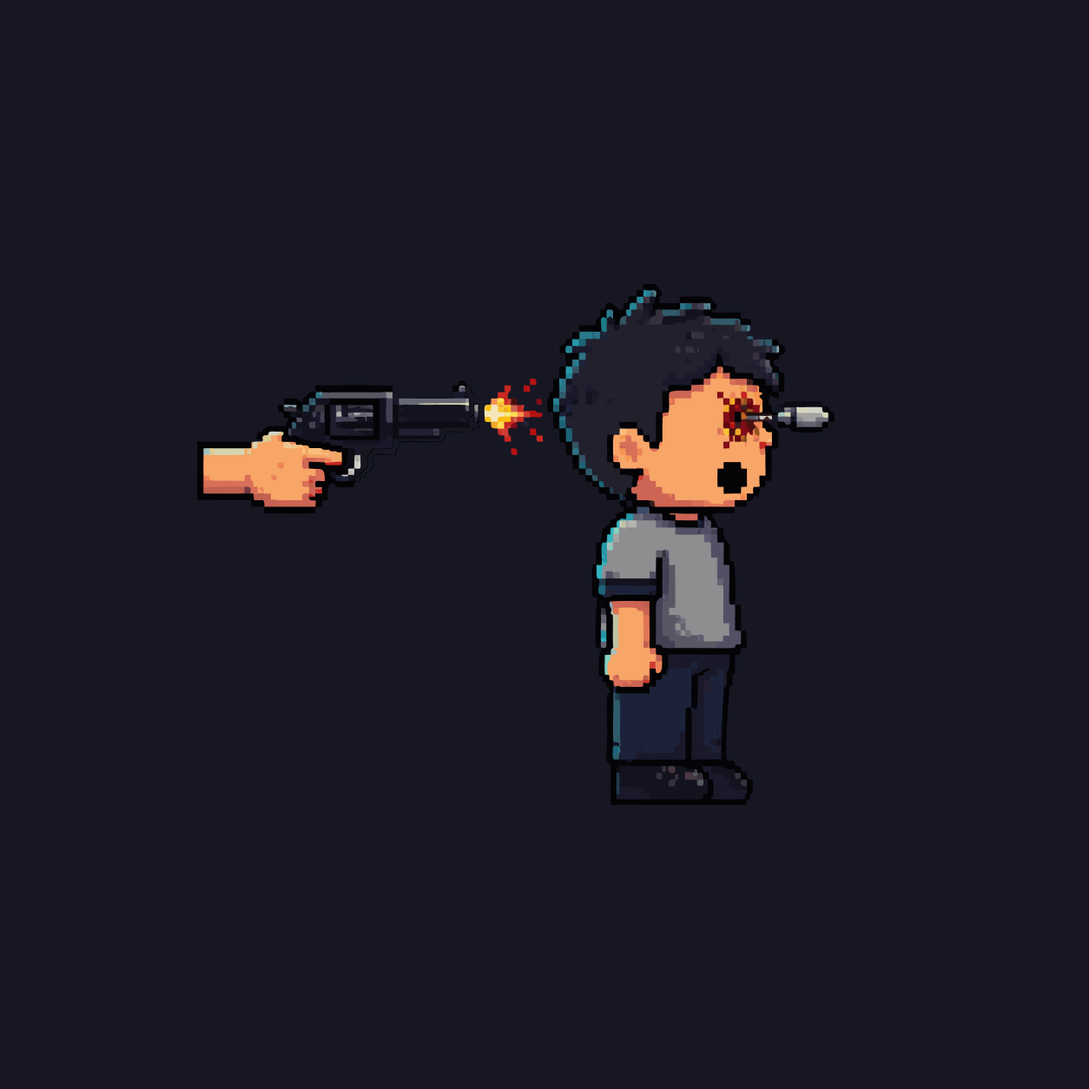
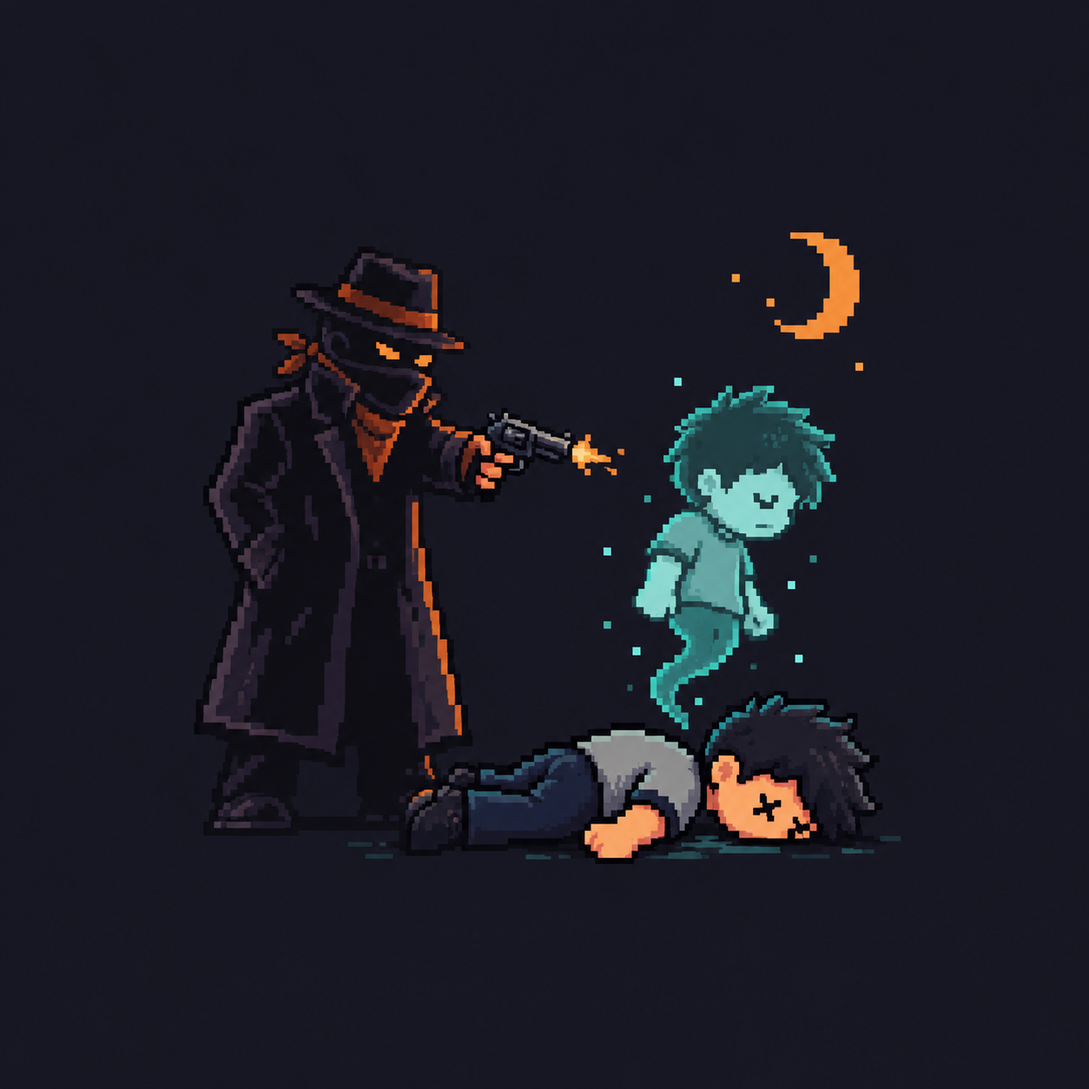
85 halloween redesign homepage

diff --git a/frontend/halloween/homeSeason.ts b/frontend/halloween/homeSeason.ts
@@ -5,11 +5,13 @@ type HomeSeasonManifest = {
   revision: string
   images: string[]
   decorations: typeof DECORATION_FILES
+  playerImages: typeof PLAYER_IMAGE_FILES
   stylesheet: 'theme.css'
 }
 
 type LoadedHomeSeason = {
   images: string[]
+  playerImages: Record<PlayerImageName, string>
 }
 
 const RESOURCE_TIMEOUT_MS = 12000
@@ -28,6 +30,15 @@ const DECORATION_PROPERTIES = {
   logo: '--home-season-logo',
   noRooms: '--home-season-no-rooms',
 } as const
+const PLAYER_IMAGE_FILES = {
+  fouledPlayer: 'fouledPlayer.png',
+  killPlayer: 'killPlayer.png',
+  leavePlayer: 'leavePlayer.png',
+  lowSignal: 'lowSignal.png',
+  sleepPlayer: 'sleepPlayer.png',
+  votedPlayer: 'votedPlayer.png',
+} as const
+type PlayerImageName = keyof typeof PLAYER_IMAGE_FILES
 const loadedSeason = shallowRef<LoadedHomeSeason | null>(null)
 const seasonActive = computed(() => loadedSeason.value !== null)
 let loadStarted = false
@@ -51,6 +62,13 @@ function parseManifest(value: unknown): HomeSeasonManifest {
     Object.keys(manifest.decorations).length !== Object.keys(DECORATION_FILES).length ||
     !Object.entries(DECORATION_FILES).every(([key, filename]) => (
       manifest.decorations?.[key as keyof typeof DECORATION_FILES] === filename
+    )) ||
+    !manifest.playerImages ||
+    typeof manifest.playerImages !== 'object' ||
+    Array.isArray(manifest.playerImages) ||
+    Object.keys(manifest.playerImages).length !== Object.keys(PLAYER_IMAGE_FILES).length ||
+    !Object.entries(PLAYER_IMAGE_FILES).every(([key, filename]) => (
+      manifest.playerImages?.[key as PlayerImageName] === filename
     ))
   ) {
     throw new Error('Invalid seasonal manifest')
@@ -147,7 +165,10 @@ async function loadHomeSeason(): Promise<void> {
       property: DECORATION_PROPERTIES[key as keyof typeof DECORATION_PROPERTIES],
       url: resourceUrl(filename),
     }))
-    await Promise.all([...images, ...decorations.map(({ url }) => url)].map(preloadImage))
+    const playerImages = Object.fromEntries(Object.entries(PLAYER_IMAGE_FILES).map(([key, filename]) => (
+      [key, resourceUrl(filename)]
+    ))) as Record<PlayerImageName, string>
+    await Promise.all([...images, ...decorations.map(({ url }) => url), ...Object.values(playerImages)].map(preloadImage))
     if (cancelled) return
     const link = await preloadStylesheet(resourceUrl(manifest.stylesheet))
     if (cancelled) {
@@ -160,7 +181,7 @@ async function loadHomeSeason(): Promise<void> {
     }
     link.media = 'all'
     document.documentElement.setAttribute('data-home-season', 'halloween')
-    loadedSeason.value = { images }
+    loadedSeason.value = { images, playerImages }
   } catch {
     // The optional folder may intentionally be absent. Keep the original page in that case.
     resetHomeSeason()
@@ -170,5 +191,6 @@ async function loadHomeSeason(): Promise<void> {
 export function useHomeSeason() {
   onMounted(() => { void loadHomeSeason() })
   const seasonImage = (index: number, fallback: string): string => loadedSeason.value?.images[index] ?? fallback
-  return { seasonActive, seasonImage, resetHomeSeason }
+  const seasonPlayerImage = (name: PlayerImageName, fallback: string): string => loadedSeason.value?.playerImages[name] ?? fallback
+  return { seasonActive, seasonImage, seasonPlayerImage, resetHomeSeason }
 }

diff --git a/frontend/src/pages/Room.vue b/frontend/src/pages/Room.vue
@@ -55,7 +55,7 @@
           :seat="game.seatIndex(id)"
           :seat-label="game.seatLabelForUser(id)"
           :offline="offlineInGame.has(id)"
-          :offline-avatar="iconLowSignal"
+          :offline-avatar="seasonPlayerImage('lowSignal', iconLowSignal)"
           :role-pick-owner-id="rolePickOwnerIdFor(id)"
           :role-pick-remaining-ms="rolePickRemainingMsFor(id)"
           :mafia-talk-host-id="mafiaTalkHostIdFor(id)"
@@ -211,7 +211,7 @@
             :seat="game.seatIndex(id)"
             :seat-label="game.seatLabelForUser(id)"
             :offline="offlineInGame.has(id)"
-            :offline-avatar="iconLowSignal"
+            :offline-avatar="seasonPlayerImage('lowSignal', iconLowSignal)"
             :role-pick-owner-id="rolePickOwnerIdFor(id)"
             :role-pick-remaining-ms="rolePickRemainingMsFor(id)"
             :mafia-talk-host-id="mafiaTalkHostIdFor(id)"
@@ -558,6 +558,7 @@ import {
 } from '@/composables/roomGame'
 import { type CameraQuality, type ScreenShareQuality, useRTC, type VQ } from '@/composables/rtc'
 import { useSubscriptionStatus } from '@/services/useSubscriptionStatus'
+import { useHomeSeason } from '../../halloween/homeSeason'
 import { api } from '@/services/axios'
 import { alertDialog, confirmDialog, confirmDialogWithRadio, useConfirmState } from '@/services/confirm'
 import { normalizeRoomGameParams, type RoomGameParams } from '@/services/gameParams'
@@ -651,6 +652,7 @@ type GameVersionPayload = {
 
 const route = useRoute()
 const router = useRouter()
+const { seasonPlayerImage } = useHomeSeason()
 const auth = useAuthStore()
 const settings = useSettingsStore()
 const userStore = useUserStore()
@@ -1068,7 +1070,7 @@ function hiddenByVisibility(id: string): boolean {
 }
 function visOffAvatar(id: string): string {
   if (!hiddenByVisibility(id)) return ''
-  return gamePhase.value === 'idle' ? iconVisOff : iconSleepPlayer
+  return gamePhase.value === 'idle' ? iconVisOff : seasonPlayerImage('sleepPlayer', iconSleepPlayer)
 }
 
 function closeKnockModal() {
@@ -1091,15 +1093,15 @@ const readyCount = computed(() => {
 })
 
 type DeathReasonKind = 'suicide' | 'foul' | 'vote' | 'night' | string
-const DEAD_ICON_BY_REASON: Record<DeathReasonKind, string> = {
-  suicide: iconLeavePlayer,
-  foul: iconFouledPlayer,
-  vote: iconVotedPlayer,
-  night: iconKillPlayer,
+const DEAD_ICON_BY_REASON: Record<DeathReasonKind, () => string> = {
+  suicide: () => seasonPlayerImage('leavePlayer', iconLeavePlayer),
+  foul: () => seasonPlayerImage('fouledPlayer', iconFouledPlayer),
+  vote: () => seasonPlayerImage('votedPlayer', iconVotedPlayer),
+  night: () => seasonPlayerImage('killPlayer', iconKillPlayer),
 }
 const deadAvatar = (id: string): string => {
   const reason = game.deathReason(id) as DeathReasonKind
-  return DEAD_ICON_BY_REASON[reason] || iconKillPlayer
+  return (DEAD_ICON_BY_REASON[reason] || DEAD_ICON_BY_REASON.night)()
 }
 
 const totalPlayers = computed(() => sortedPeerIds.value.length)

diff --git a/frontend/halloween/vite-plugin.ts b/frontend/halloween/vite-plugin.ts
@@ -10,6 +10,12 @@ const PUBLIC_RESOURCES = [
   'evil-pumpkin.png',
   'logo-halloween.svg',
   'icon-no-rooms-halloween.svg',
+  'fouledPlayer.png',
+  'killPlayer.png',
+  'leavePlayer.png',
+  'lowSignal.png',
+  'sleepPlayer.png',
+  'votedPlayer.png',
   'manifest.json',
   'theme.css',
 ]

diff --git a/frontend/halloween/player-status-prompts.md b/frontend/halloween/player-status-prompts.md
@@ -1,0 +1,73 @@
+# Хеллоуинские статусы игроков
+
+Инструмент: встроенный image_gen. Сезонные версии находятся в этой же папке. По просьбе пользователя первый вариант `killPlayer.png` перенесён в `frontend/src/assets/images/killPlayer.png` как постоянный; для Halloween создан отдельный новый вариант. Остальные исходные PNG не изменены. Пиксельная стилистика применяется ко всем персонажам и предметам.
+
+| Файл | Смысл | Сезонная концепция |
+|---|---|---|
+| fouledPlayer.png | Удалён со стола по фолам | Штрафные карточки и проклятая молния |
+| killPlayer.png | Убит мафией ночью | Тыквоголовый мафиози с костлявой рукой, луна, летучая мышь и призрак |
+| leavePlayer.png | Совершил самоубийство | Призрак с разбитым символом жизни у собственного надгробия, без показа способа |
+| lowSignal.png | Проблемы с сетью | Телефон, оборванный сигнал и разъединённый кабель |
+| sleepPlayer.png | Спит | Закрытые глаза, ночной колпак и Z |
+| votedPlayer.png | Изгнан голосованием | Урна с бюллетенями и несколько призрачных рук |
+
+## Общий промпт
+
+Use case: style-transfer / precise-object-edit.
+Asset type: ONE replacement square pixel-art status illustration inside a player avatar tile in the Russian social game deceit (Mafia).
+Input image1 is the current original status illustration, an edit target and source of the SAME recurring player character: young adult male, messy dark hair, pale-warm skin, gray shirt, dark trousers, chunky black shoes. Preserve recognizable identity, pixel density and compact readable game-sprite silhouette; poses/props can change only to clarify the specified state and add Halloween. Input image2 is an approved seasonal cat illustration for PALETTE AND PIXEL EDGE reference only; do NOT put this cat, its hat or umbrella into the player illustration.
+STYLE MUST BE ACTUAL PIXEL ART throughout ALL objects: visible small square pixels, stepped diagonals, crisp hard outlines, flat limited palette and blocky dither shading. Every face, hand, prop, light and shadow must follow the same coarse pixel grid. NO smooth vector curves, no photorealism, no glossy 3D, no painterly brushwork, no antialiasing, blur or bloom, no mixing a pixel person with smooth props. Original game sprite style with Halloween charcoal, dark plum, warm burnt orange, pale amber and restrained ghostly teal. Keep skin/body readable. No detailed bloody anatomy, no protruding bullets, no gore.
+CANVAS: square approximately1254x1254 (or the available square output), OPAQUE flat solid background exact dark charcoal #171723 across all empty space, matching original tile. Do not put this art on transparent, white, checkerboard or scenery backgrounds. One complete centered scene ONLY, no contact sheet, no border, no title, no UI, no extra words or watermark. Leave breathing room around all sides; main scene occupies central~65-72% of canvas, similar apparent scale to original; no cropped character/limbs/props. Keep most area quiet flat #171723, apart from a tiny understated pixel ground shadow if needed.
+READABILITY: status must read at a tiny avatar-tile thumbnail. Clear large silhouette, only2-3 strong meaningful props, few tiny decorative accents. Horror/Halloween via expressive shadowy supernatural props, haunted shapes, mean pumpkin details, ghostly light; not a dense background. The six states form one family but each action must remain unmistakable and visually distinct.
+Do not copy unwanted original violence if the specific concept below replaces it. Exact event/state specified below takes priority over misleading props in the old illustration.
+
+## fouledPlayer.png
+
+EVENT: player was REMOVED FROM THE TABLE AS A PENALTY FOR REPEATED FOULS / rule violations.
+Keep recognizable frightened player recoiling as a sharp orange CURSE-LIGHTNING strike descends from upper right (echo original lightning theme). At upper left of the character show a clear fan of THREE large red-orange referee penalty cards, each marked with ONE simple black X, a small skeletal referee hand presenting the cards from the side. Cards and thunder together signal punishment for repeated violations. Player upright/stumbling backward with hands raised, dark teal-orange curse sparks, NO death, no grave, no ballot, no human crowd voting, no door/exit. Add a small mean jack-o'-lantern shape subtly worked into the central thunder strike/star. Leave all character proportions consistent with the original. Card X marks may be blocky symbols, no words or numerals. Dominant narrative is penalized/banished by referee, not network electricity.
+
+## killPlayer.png
+
+### Первый вариант — теперь постоянный
+
+Первоначальный промпт ниже относится к одобренной иллюстрации, которая теперь сохранена в `frontend/src/assets/images/killPlayer.png`. После отката Halloween она остаётся постоянной версией.
+
+EVENT: player was KILLED BY THE MAFIA DURING THE NIGHT.
+Retain original pixel character at center-right but replace the graphic head wound/protruding bullet with a non-graphic death scene: player's gray-clothed body slumped/fallen at lower center, closed/X eyes small, a wispy pale TEAL GHOST shaped like the same character rising just above the body. At upper-left/left is a LARGE ominous MAFIA silhouette with black fedora, dark coat and bandana, aiming a small pixel revolver toward the victim; muzzle dark or one tiny amber flash, no visible wound or gore. A small amber crescent moon near upper right makes NIGHT clear. Mafia attacker and rising soul are the main clear motifs. ONE scene, no doorway, no cards, no vote hands, no guillotine. Dark threatening Halloween crime vibe. Prefer a complete compact composition with attacker left, fallen character right, small ghost above; keep silhouette readable and avoid overlapping all figures into a mass.
+
+### Новый сезонный вариант
+
+Use case: style-transfer.
+Asset type: ONE production-ready square pixel-art Halloween status illustration for killPlayer.png in the fictional Mafia game deceit. Meaning MUST remain unmistakable: PLAYER WAS KILLED BY THE MAFIA AT NIGHT.
+Input image 1 is the approved PERMANENT illustration, supplied as STYLE, CHARACTER and QUALITY reference; create a visibly NEW HALLOWEEN composition rather than copying it. Preserve the same recurring adult cartoon victim: messy charcoal hair, warm skin, gray shirt, navy trousers and chunky black shoes. Match the reference's actual square-pixel game-sprite style, readable blocky outlines, scale and sharp stepped shading. Image 2 is only a supporting seasonal PALETTE and PIXEL EDGE reference; do not include its cat/umbrella or lettering.
+NEW CONCEPT: a sinister PUMPKIN-HEADED MAFIA ASSASSIN stands on the RIGHT, with a dark fedora tilted over the evil jack-o-lantern face (slanted glowing orange eyes and jagged carved grin), tattered plum-black long mafia coat, one skeletal hand aiming a compact dark revolver down and LEFT toward the fallen victim. The jack-o-lantern head must be the unmistakable Halloween centerpiece while the fedora, coat and revolver clearly identify mafia. A tiny angular amber muzzle flash is enough; no bullet penetration or wound.
+At lower LEFT/center lies the same gray-shirted victim with small X eyes, intact body, no blood. Above him a recognizably matching PALE TEAL GHOST rises in a crooked wispy trail, its hands lifted in alarm. Keep ghost and body distinct and readable. A restrained burnt-orange crescent moon and ONE tiny pixel bat at upper LEFT indicate Halloween night. A very small fallen carved pumpkin lantern near the ground may echo the killer's head, but don't crowd the scene. Grim spooky game atmosphere, simple clear silhouettes.
+COMPOSITION: complete attacker on right, fallen player at lower left, ghost upper left/center, no overlapping silhouettes obscuring the story; all inside central 70-76% of square canvas with ample empty margins. Match reference apparent character scale; do not cut off feet, hat, ghost, moon, props or coat.
+PIXEL ART ONLY throughout: every pumpkin, carved facial feature, skeletal finger, revolver, coat, moon, bat, player, ghost and ground shadow uses the SAME crisp chunky square-pixel grid with stepped diagonals, hard black/dark outlines, flat limited colors and block dither shading. NO smooth vector curves, no glossy 3D, photorealism, painterly brushwork, blur, bloom or anti-aliased edges.
+Palette: charcoal, midnight plum, pumpkin burnt orange / amber, restrained spectral teal. Quiet OPAQUE solid exact #171723 empty background matching the original avatar tiles, no scenery, room, graveyard, horizon, heavy vignette, texture, checkerboard or transparent background. Square 1254x1254 if available, one isolated finished scene. No frame, UI, collage, labels, words, lettering or watermark. No gore or graphic injuries. No ballot box, foul cards, cracked heart, grave marker, sleep Z, phone, or door.
+
+## leavePlayer.png
+
+Use case: stylized-concept / style-transfer.
+Asset type: ONE square pixel-art in-game status illustration for the fictional Russian Mafia game deceit; file leavePlayer.png, whose game-state meaning is that the player's character died by suicide. This is a fictional game avatar status, not a real-world scene.
+Image 1 is a STYLE AND CHARACTER REFERENCE ONLY (sleepPlayer.png): preserve the recurring adult cartoon male character's recognizable messy dark hair, warm skin, gray shirt, navy trousers and chunky black shoes; change his state and pose completely. Image 2 is a PALETTE / PIXEL EDGE reference only (Halloween cat), do not include the cat, hat or umbrella.
+Make a grim, symbolic NON-GRAPHIC AFTERMATH with no method depicted: at center a small dark stone grave marker bearing the same player's blocky portrait with small X eyes. His pale teal ghost, recognizably the same messy-haired adult character, hovers beside it looking somberly downward; his own ghostly hands hold the two separated halves of a large cracked pumpkin-orange heart-shaped game-life token. One small extinguished candle and a subdued angry jack-o-lantern sit near the stone. This status symbolizes his OWN ended game life, with no outside killer, no vote or foul penalty and no walking away through an exit. Keep the broken life-token and ghost large, clear and readable. No living sleeping person or Z symbols.
+STYLE MUST BE ACTUAL PIXEL ART in every detail: a crisp, chunky square-pixel grid, stepped diagonals, strong blocky dark outlines, flat limited colors and block dither shadows, matching the original game sprite family. Every ghost edge, heart, stone, candle, pumpkin and shadow obeys the same pixel grid. NO photorealism, smooth vector shapes, gradients, blur, bloom, antialiasing, glossy 3D or painted texture.
+Palette: charcoal, dark plum, burnt pumpkin orange, restrained ghostly teal. Empty background OPAQUE flat exact #171723; no scene background, floor horizon, vignette, border or UI. Square 1254x1254 if available; main complete scene occupies about central 65-72% with wide quiet margins, nothing cut off. Tiny subtle stepped ground shadow allowed. Same apparent sprite scale as the original, readable at avatar thumbnail.
+No text, letters, labels, watermark. No wound, blood, gore, weapon, rope, or self-harm method/action. No attacker, cards, ballot box, door, travel bag, or network symbols. Deliver only one complete production-ready square image.
+
+## lowSignal.png
+
+EVENT: living player has a NETWORK CONNECTION PROBLEM / weak or lost signal.
+Keep recognizable worried player upright at left, holding smartphone up trying to catch signal; phone display shows big pixel broken Wi-Fi symbol (curved stepped arcs crossed with a small orange diagonal, NO words). At right show a crooked dark haunted transmission tower / router with antenna, and a clearly BROKEN / unplugged network cable between phone/player side and router with two separated plug halves. Above is large pixel weak Wi-Fi indicator with only one tiny amber bar/dot active, other two bars gray or dashed teal signal fragments visibly interrupted. At most one tiny bat hanging from antenna as Halloween detail, small spiderweb on router corner. Player intact alive, not electrocuted, not sleeping, no attack, no cards or blood. Keep 2main subjects and simple large signal icon rather than busy manyprops. Broken connection reads instantly at thumbnail.
+
+## sleepPlayer.png
+
+EVENT: player is ASLEEP, not dead, and not experiencing network problems.
+Close-up of SAME recognizable player's face centered somewhat lower like original, eyes gently CLOSED (normal short closed eyelids, NEVER Xs), relaxed peaceful mouth, small dark plum sleeping cap with crooked tip and tiny pumpkin-orange band or patch. Head resting on a small dark pillow at bottom edge, shoulders just visible. Above right exactly TWO or THREE clear blocky pixel 'Z' sleep symbols in pale teal and orange; these Z symbols are the ONLY text allowed. Small amber crescent moon upperleft and a tiny curled sleeping bat adjacent to moon provide Halloween atmosphere. No huge fear/scared eyes, no wounds, no death body, no spectral soul leaving body. Do not let cap conceal the familiar dark hair, face shape or closed eyelids. Keep props crisp squarepixel edges, even moon, pillow, bat andcap followpixelgrid. Read as quiet spooky slumber.
+
+## votedPlayer.png
+
+EVENT: table collectively VOTED OUT / EXPELLED the player, distinct from referee punishment and from leaving voluntarily.
+Show recognizable frightened player mid-stumble in center-right being pushed off the edge of a small dark gaming-table platform toward right by THREE visible ghostly teal skeletal HANDS emerging from the left, clearly collective pointing/pushing. At front-left, below hands, a small prominent pumpkin-orange BALLOT BOX with slit at top and TWO pale paper ballots, each marked with a blocky X, communicates voting. Large hands all point/urge same direction. Rightward thrown pose evokes original kicked-off illustration, but don't use a giant boot as solemeaning. No hanging, no gun, no death wound or gore, no exit door/suitcase, no thunder or referee cardfan. Halloween via skeletal ghost hands, shadowed purple stone/tableedge and an angry carved pumpkin motif onballotbox. Clear contrast: ballotbox+multiplehands for collectiveexpulsion vs foulcards+lightning for rulepenalty.
+

diff --git a/frontend/halloween/README.md b/frontend/halloween/README.md
@@ -1,13 +1,27 @@
 # Halloween: одна папка со всем комплектом
 
-Все новые файлы находятся в **`frontend/halloween/`**. За её пределами изменены только четыре ранее существовавших файла:
+Все дополнительные файлы темы находятся в **`frontend/halloween/`**. Для её подключения за пределами папки изменены пять ранее существовавших файлов:
 
 - `frontend/src/pages/Home.vue`
 - `frontend/src/views/Carousel.vue`
 - `frontend/src/views/Header.vue`
+- `frontend/src/pages/Room.vue`
 - `frontend/vite.config.ts`
 
-Исходные изображения в `frontend/src/assets/images/` сохранены.
+Отдельно, по просьбе пользователя, `frontend/src/assets/images/killPlayer.png` заменён на постоянную иллюстрацию: мафиози в федоре, убитый игрок и бирюзовый призрак. Она используется и без Halloween и остаётся после отката темы. Для Halloween в этой папке находится другая версия `killPlayer.png`. Остальные исходные изображения в `frontend/src/assets/images/` сохранены.
+
+В комнате сезонные изображения заменяют шесть игровых статусов, сохраняя прежние условия их показа:
+
+| Файл | Значение |
+|---|---|
+| `fouledPlayer.png` | Игрок удалён со стола по фолам. |
+| `killPlayer.png` | Игрок убит мафией ночью. |
+| `leavePlayer.png` | Игрок совершил самоубийство. |
+| `lowSignal.png` | У игрока проблемы с сетью. |
+| `sleepPlayer.png` | Игрок спит. |
+| `votedPlayer.png` | Игрок изгнан со стола голосованием. |
+
+Все шесть сезонных файлов находятся в этой папке; включение темы не перезаписывает постоянные PNG. Подключение работает и при прямом открытии комнаты, где общий хедер не отображается. Сопоставление причин смерти и приоритеты статусов остаются прежними.
 
 Для пустого списка комнат используется сезонная версия `iconNoRooms`: прежний кот под сломанным зонтом с пиксельной ведьминской шляпой, пиксельной тыквой и бирюзово-оранжевыми контурами. Новые детали используют ступенчатые линии на целочисленной сетке, без плавных кривых и скруглений. Исходная SVG-иконка, её размер 220×250 и текст «Пока нет комнат...» сохраняются. Замена выполняется только в сезонном CSS; удаление темы возвращает исходный вариант без отдельных правок `Home.vue`.
 
@@ -19,6 +33,8 @@
 
 Сначала прочитайте инструкцию: при удалении папки она тоже исчезнет.
 
+Откат убирает Halloween-оформление. Постоянная замена `frontend/src/assets/images/killPlayer.png` в него не входит: понравившаяся иллюстрация остаётся обычным изображением ночного убийства.
+
 ### Простой способ: готовый патч
 
 Выполните из корня репозитория:
@@ -28,7 +44,7 @@ git apply --check frontend/halloween/rollback.patch
 git apply frontend/halloween/rollback.patch
 ```
 
-Первая команда только проверяет возможность отката. Вторая убирает подключение Halloween из четырёх старых файлов. Другие части проекта она не затрагивает. Если проверка сообщает о конфликте с последующими правками, используйте ручной способ ниже.
+Первая команда только проверяет возможность отката. Вторая убирает подключение Halloween из пяти старых файлов. Другие части проекта она не затрагивает. Если проверка сообщает о конфликте с последующими правками, используйте ручной способ ниже.
 
 Затем удалите **только папку `frontend/halloween/` целиком**. После этого:
 
@@ -126,7 +142,47 @@ useHomeSeason()
 
 Остальную разметку и логику хедера оставьте. Сезонный логотип и тыква оформлены только в CSS папки `halloween`, поэтому после удаления подключения вернётся исходный логотип.
 
-#### 5. Удаление и сборка
+#### 5. frontend/src/pages/Room.vue
+
+Удалите импорт:
+
+```ts
+import { useHomeSeason } from '../../halloween/homeSeason'
+```
+
+Удалите строку:
+
+```ts
+const { seasonPlayerImage } = useHomeSeason()
+```
+
+В обоих компонентах плиток игроков замените `:offline-avatar="seasonPlayerImage('lowSignal', iconLowSignal)"` на `:offline-avatar="iconLowSignal"`.
+
+В функции `visOffAvatar` верните штатное изображение сна:
+
+```ts
+return gamePhase.value === 'idle' ? iconVisOff : iconSleepPlayer
+```
+
+Верните таблицу причин смерти и функцию `deadAvatar` к следующему виду:
+
+```ts
+type DeathReasonKind = 'suicide' | 'foul' | 'vote' | 'night' | string
+const DEAD_ICON_BY_REASON: Record<DeathReasonKind, string> = {
+  suicide: iconLeavePlayer,
+  foul: iconFouledPlayer,
+  vote: iconVotedPlayer,
+  night: iconKillPlayer,
+}
+const deadAvatar = (id: string): string => {
+  const reason = game.deathReason(id) as DeathReasonKind
+  return DEAD_ICON_BY_REASON[reason] || iconKillPlayer
+}
+```
+
+Шесть импортов PNG из `src/assets/images/` оставьте: после отката используются именно эти постоянные версии, включая обновлённый `killPlayer.png`.
+
+#### 6. Удаление и сборка
 
 Удалите **`frontend/halloween/` целиком**. Других дополнительных файлов или папок Halloween в исходниках нет.
 
@@ -137,13 +193,13 @@ npm --prefix frontend run typecheck
 npm --prefix frontend run build
 ```
 
-После обычной публикации вернётся старый дизайн. Без перечисленных правок удаление исходной папки вызовет ошибку импорта при следующей сборке, поэтому для полного отката нужны оба действия.
+После обычной публикации вернётся оформление без Halloween, с обновлённым постоянным `killPlayer.png`. Без перечисленных правок удаление исходной папки вызовет ошибку импорта при следующей сборке, поэтому для полного отката нужны оба действия.
 
 ## Быстрое отключение на уже работающем сервере
 
-При сборке публикуются семь фоновых PNG, пять декоративных ресурсов (два PNG и три SVG), `manifest.json` и `theme.css` по прежнему адресу `/seasonal/halloween/`. Инструкция, патч, тесты, промпты и исходные TS-файлы туда не копируются.
+При сборке публикуются семь фоновых PNG, пять декоративных ресурсов (два PNG и три SVG), шесть PNG игровых статусов, `manifest.json` и `theme.css` по прежнему адресу `/seasonal/halloween/`: всего 20 файлов, включая 18 изображений. Инструкция, патч, тесты, промпты и исходные TS-файлы туда не копируются.
 
-Удаление опубликованной папки `seasonal/halloween/` и обновление страницы возвращают штатное оформление без пересборки. В текущем контейнере Nginx папка находится в `/usr/share/nginx/html/seasonal/halloween/`.
+Удаление опубликованной папки `seasonal/halloween/` и обновление страницы возвращают штатное оформление без пересборки; новая постоянная версия `killPlayer.png` сохраняется. В текущем контейнере Nginx папка находится в `/usr/share/nginx/html/seasonal/halloween/`.
 
 Это временное отключение до следующего развёртывания из прежнего образа. Для постоянного полного отката выполните раздел выше. Удаление только локальной папки не меняет уже запущенный контейнер.
 
@@ -156,6 +212,10 @@ npm --prefix frontend run build
 - `evil-pumpkin.png` — злая тыква справа от логотипа.
 - `icon-no-rooms-halloween.svg` — сезонный кот со сломанным зонтом для пустого списка комнат.
 - `no-rooms-preview.png` — предпросмотр сезонной иконки на фоне списка комнат.
+- `fouledPlayer.png`, `killPlayer.png`, `leavePlayer.png`, `lowSignal.png`, `sleepPlayer.png`, `votedPlayer.png` — шесть сезонных игровых статусов с теми же значениями, что у исходных PNG.
+- `player-status-prompts.md` — промпты встроенного image_gen для игровых статусов.
+- `player-status-preview.png` — общий предпросмотр шести игровых статусов с подписями.
+- `kill-player-preview.png` — сравнение постоянной версии ночного убийства и новой Halloween-версии с тыквоголовым мафиози.
 - `button-logo-preview.png` — крупный предпросмотр двух изменённых элементов.
 - `button-grip-preview.html` — локальная проверка захвата при наведении, фокусе, нажатии и недоступном состоянии кнопки.
 - `button-logo-prompts.md` — промпты генерации прозрачных украшений.
@@ -167,7 +227,7 @@ npm --prefix frontend run build
 - `check-home-season.mjs` — проверки включения темы, отключения и недоступных ресурсов.
 - `preview.html` — локальное превью комплекта; откройте файл в браузере.
 - `prompts.md` — выбор серий и использованные промпты.
-- `rollback.patch` — готовые правки четырёх старых файлов для полного отката.
+- `rollback.patch` — готовые правки пяти старых файлов для полного отката.
 - `README.md` — эта инструкция.
 
 Сборочные файлы в `frontend/dist/` создаются обычной командой сборки и не являются дополнительными исходниками.
@@ -182,7 +242,7 @@ npm --prefix frontend run typecheck
 npm --prefix frontend run build
 ```
 
-При замене картинок или CSS меняйте `revision` в `manifest.json`. Отсутствие манифеста отключает тему даже при наличии старых картинок в кеше. Все семь фоновых изображений, пять декоративных ресурсов и CSS должны загрузиться успешно, прежде чем оформление включится. Если один из них недоступен, возвращаются штатные изображения и стили; при сбросе также удаляются CSS-переменные украшений.
+При замене картинок или CSS меняйте `revision` в `manifest.json`. Манифест содержит строгую таблицу `playerImages` с шестью именами игровых статусов. Отсутствие манифеста отключает тему даже при наличии старых картинок в кеше. Все семь фоновых изображений, пять декоративных ресурсов, шесть игровых статусов и CSS должны загрузиться успешно, прежде чем оформление включится. Если один из них недоступен, возвращаются штатные изображения и стили; при сбросе также удаляются CSS-переменные украшений. Проверка загрузчика охватывает каждый из шести недоступных статусов, некорректную таблицу `playerImages`, сброс темы и удалённую опубликованную папку.
 
 ## Варианты оформления остальной части главной страницы
 
